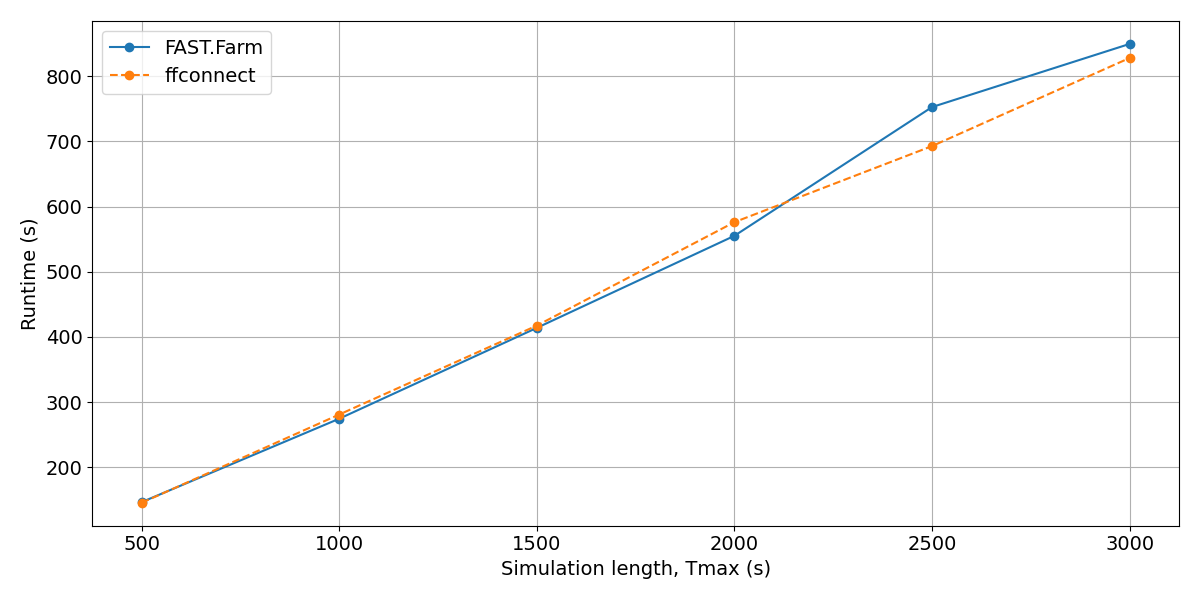
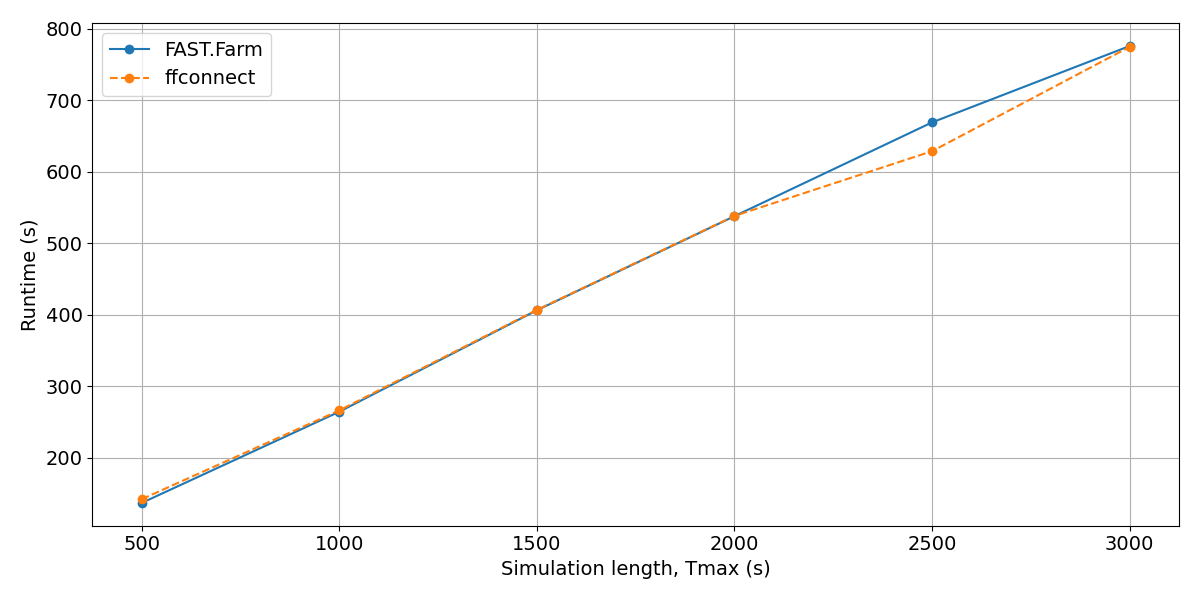
minor updates

diff --git a/run_time_experiment.py b/run_time_experiment.py
@@ -7,6 +7,7 @@ Results are saved to results/time_experiment.csv.
 """
 
 import csv
+import os
 import subprocess
 import time
 from pathlib import Path
@@ -51,6 +52,33 @@ def cleanup_temp(path: Path) -> None:
             pass
 
 
+def _is_released(path: Path) -> bool:
+    if not path.exists():
+        return True
+    try:
+        os.replace(path, path)
+        return True
+    except OSError:
+        return False
+
+
+def wait_for_file_release(paths, timeout: float = 120.0, poll_interval: float = 0.5) -> None:
+    """Block until none of `paths` are still held open by another process.
+
+    Used after the ffconnect simulation loop ends, since the spawned
+    FAST.Farm process may still be flushing/closing output files after
+    MPI_COMM_DISCONNECT returns. Falls through after `timeout` with a
+    warning if files remain locked (cleanup_temp will then just skip them,
+    same as today).
+    """
+    deadline = time.monotonic() + timeout
+    while time.monotonic() < deadline:
+        if all(_is_released(p) for p in paths):
+            return
+        time.sleep(poll_interval)
+    print(f"  Warning: some output files still locked after {timeout:.0f}s")
+
+
 def run_ff(tmax: int) -> float:
     """Run direct FAST.Farm for the given TMax; return wall-clock seconds."""
     tmp = make_temp_fstf(FF_FSTF, tmax, f"_tmp_ff_{tmax}")
@@ -75,6 +103,11 @@ def run_ffconnect(tmax: int) -> float:
         # All channels passed as None — no control override
         for i in range(interface.num_turbines):
             interface.set_command(yaw=None, ipc=None, torque=None, turb_idx=i)
+    # interface.step() returning True means MPI_COMM_DISCONNECT/FINALIZE
+    # already happened on the FAST.Farm side, but the spawned process may
+    # still be writing/closing its output files. Wait for that to finish
+    # so the timer captures the same "full run" as run_ff's subprocess.run.
+    wait_for_file_release(list(DEMO_DIR.glob(f"{tmp.stem}*")))
     elapsed = time.perf_counter() - t0
     cleanup_temp(tmp)
     return elapsed

diff --git a/results/plot_timing_comparison.py b/results/plot_timing_comparison.py
@@ -34,20 +34,17 @@ fig1.tight_layout()
 fig1.savefig(os.path.join(RESULTS_DIR, "runtime_vs_simtime.png"))
 
 # --- Figure 2: runtime vs. farm size (same simulation length) ---
-ff_rows = load_csv("ff_timing_results.csv")
-ffconnect_rows = load_csv("ffconnect_timing_results.csv")
-ff_rows.sort(key=lambda r: int(r["turbines"]))
-ffconnect_rows.sort(key=lambda r: int(r["turbines"]))
+farm_rows = load_csv("turbine_scaling_timing.csv")
+farm_rows.sort(key=lambda r: int(r["turbines"]))
 
-ff_turbines = [int(r["turbines"]) for r in ff_rows]
-ff_farm_time = [float(r["elapsed_seconds"]) for r in ff_rows]
-ffconnect_turbines = [int(r["turbines"]) for r in ffconnect_rows]
-ffconnect_farm_time = [float(r["elapsed_seconds"]) for r in ffconnect_rows]
+turbines = [int(r["turbines"]) for r in farm_rows]
+ff_farm_time = [float(r["ff_time_s"]) for r in farm_rows]
+ffconnect_farm_time = [float(r["ffconnect_time_s"]) for r in farm_rows]
 
 fig2, ax2 = plt.subplots(figsize=(12, 6))
 # fig2.suptitle("Runtime vs. Farm Size", fontsize=13)
-ax2.plot(ff_turbines, ff_farm_time, marker="o", label="FAST.Farm")
-ax2.plot(ffconnect_turbines, ffconnect_farm_time, marker="o", linestyle="--", label="ffconnect")
+ax2.plot(turbines, ff_farm_time, marker="o", label="FAST.Farm")
+ax2.plot(turbines, ffconnect_farm_time, marker="o", linestyle="--", label="ffconnect")
 ax2.set_xlabel("Number of turbines")
 ax2.set_ylabel("Runtime (s)")
 ax2.legend()
